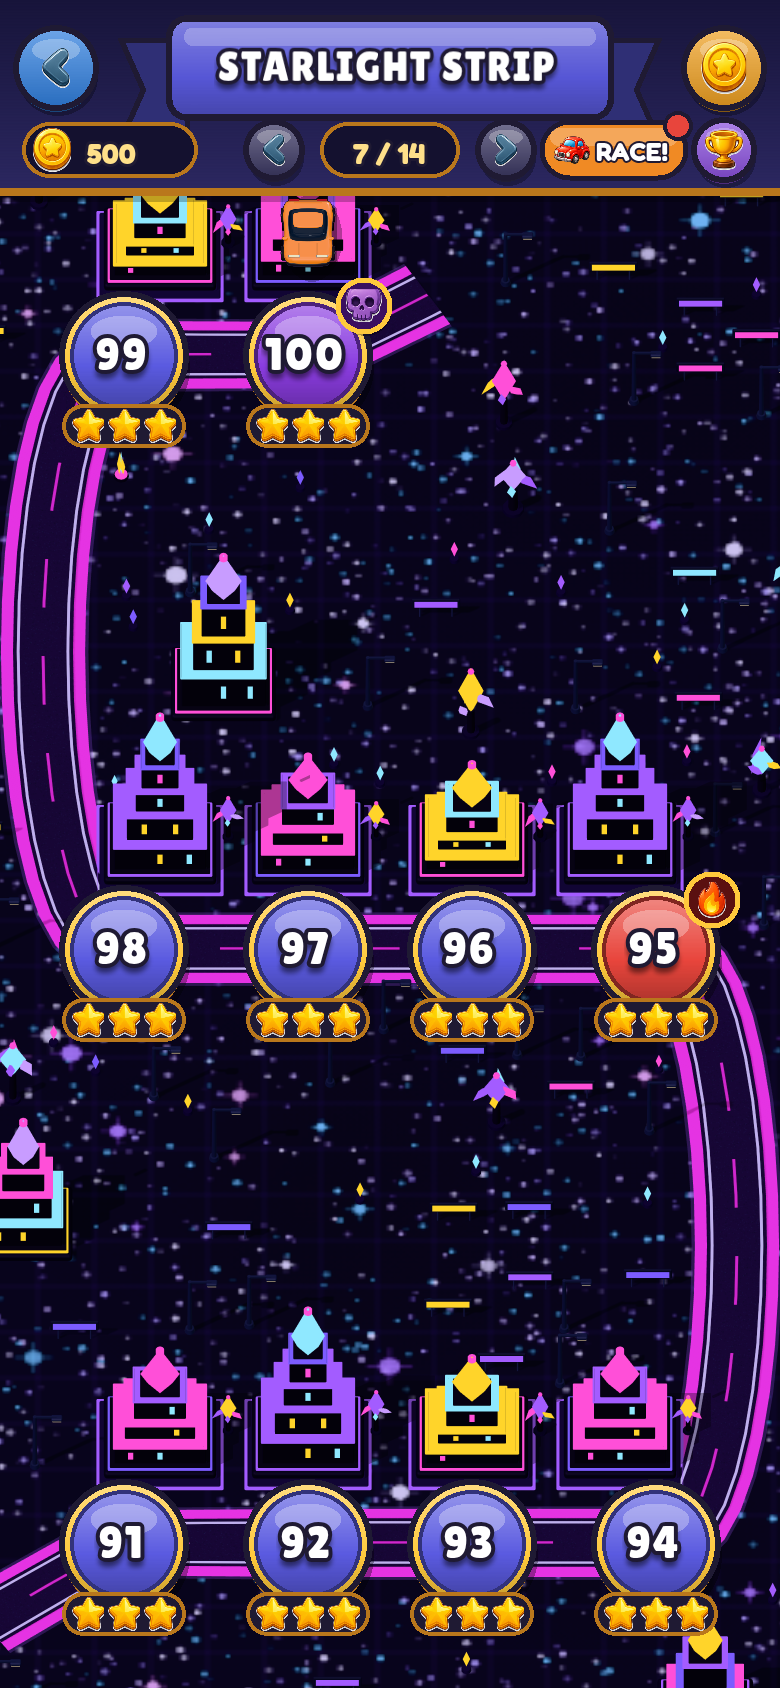
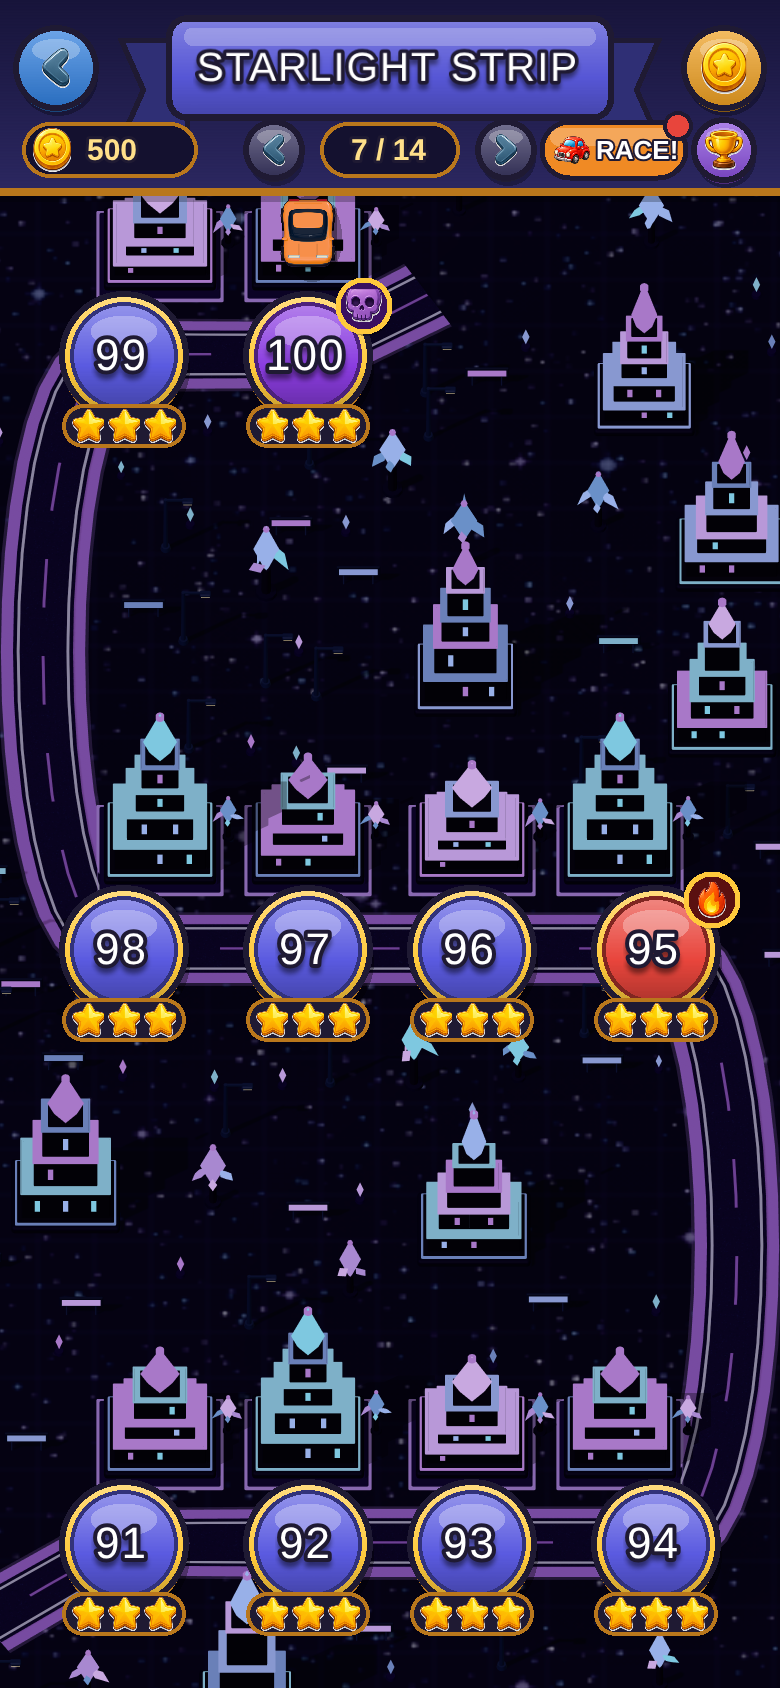
art(world7): desaturate Starlight Strip (CONCEPT revision)
Nadav rejected clarity CONCEPT as too colourful. Cooler restrained space-night
palette: softer ice/lilac neon, fewer road streaks, quieter fill/awnings, dialed
cosmos tint/glow. KEEP dark-rim + bright-core spires and clear crystalTree
trunk+crown. Rebaked W7 only. Still CONCEPT-STAMP.

diff --git a/tools/art/studio/backdrop.js b/tools/art/studio/backdrop.js
@@ -203,22 +203,22 @@ Object.assign(THEME, {
     lot: 0x70828F,
     sun: { color: 0xFFF0DA, intensity: 3.1, hemi: [0xCFE6FF, 0x5E6C78, 0.66], env: 0.32, exposure: 1.0 },
   },
-  // Starlight Strip — violet space-night: crystal spires, magenta neon, star-field plaza.
-  // Structural variety (faceted crystal towers, pedestaled crystal clusters, star plaza) —
+  // Starlight Strip — restrained space-night: crystal spires + crystal trees on deep navy/violet.
+  // Desaturate pass: cooler palette, softer neon; KEEP dark-rim / bright-core silhouette clarity.
   // NOT a Neon Nights hue swap (no setback city towers / warm marquees).
   world7: {
-    asphalt: 0x241838, asphaltHi: 0x32245A, asphaltLo: 0x1A1234, paint: '#F1E8FF', centre: '#FF4FD8',
-    kerb: 0x7A5CC8, gutter: 0x120A22, walk: [0x2A1E4E, 0x24183F, 0x32245A, 0x1E1438], walkJoint: '#140C28',
-    // Crystal-tree crowns: bright cyan/magenta (different value from dark tower walls).
-    lawn: [0x140E2A, 0x100A22], leaf: [0x8FE8FF, 0xFF4FD8, 0xC89CFF, 0xFFD42A, 0xA35CFF], trunk: 0x140C28,
-    roofs: [0x0E0818, 0x160E2E, 0x1A1234, 0x24183F],
-    // Dark silhouette walls (not mid-violet wash) — facets + neon belts carry the read.
-    walls: [0x1A1234, 0x140C28, 0x221848, 0x0E0818],
-    awnings: [[0xFF4FD8, 0x1A1234], [0xA35CFF, 0x1A1234], [0x8FE8FF, 0x1A1234]],
-    depot: [0x1C1438, 0x241A44, 0x160E2E], depotJoint: '#0C0818', track: 0x18122E, trackEdge: 0xFF4FD8,
-    neon: [0xFF4FD8, 0xA35CFF, 0x8FE8FF, 0xFFD42A, 0x7C5CFF], lot: 0x0A0718,
-    fill: [0xFF4FD8, 0x7C5CFF],
-    sun: { color: 0xD0C0FF, intensity: 1.85, hemi: [0x9A82FF, 0x0A0618, 0.72], env: 0.26, exposure: 1.05 },
+    asphalt: 0x1A142E, asphaltHi: 0x262040, asphaltLo: 0x120E24, paint: '#D0CCD8', centre: '#A878C8',
+    kerb: 0x564878, gutter: 0x0E0A1C, walk: [0x1E1838, 0x181430, 0x241E42, 0x16122C], walkJoint: '#100C20',
+    // Crystal-tree crowns: soft ice/lilac (readable vs dark trunks; no hot magenta/gold punch).
+    lawn: [0x100C20, 0x0C0818], leaf: [0x7EC8E0, 0xA888D0, 0x98B0E8, 0xC8A8E0, 0x6A90C8], trunk: 0x100C20,
+    roofs: [0x0C0814, 0x120E24, 0x16122C, 0x1C1834],
+    // Dark silhouette walls kept — facets + soft neon belts carry the read.
+    walls: [0x16122C, 0x100C20, 0x1C1838, 0x0C0814],
+    awnings: [[0x8868B0, 0x16122C], [0x6A88C0, 0x16122C], [0x7EB0C8, 0x16122C]],
+    depot: [0x16122E, 0x1C1838, 0x120E24], depotJoint: '#0A0814', track: 0x141028, trackEdge: 0xA878C8,
+    neon: [0xA878C8, 0x7EB0C8, 0x8898D0, 0xB898D8, 0x6A80B8], lot: 0x080610,
+    fill: [0x7050A0, 0x5060A0],
+    sun: { color: 0xB8B0D8, intensity: 1.55, hemi: [0x6A68A0, 0x080610, 0.55], env: 0.22, exposure: 0.98 },
   },
 });
 
@@ -279,18 +279,18 @@ function roadTexture(T, world, L, r) {
   if (FAMILY[world] === 'night') {
     // Wet asphalt: lamp pools and long neon streak reflections, added
     // light-on-dark ('lighter') so they glow instead of staining.
-    // World7 denser magenta/violet crystal wash (not warm sodium like Neon Nights).
-    const wetDense = world === 'world7';
+    // World7 soft violet wash (restrained vs Neon Nights sodium; desaturate pass).
+    const wetSoft = world === 'world7';
     x.save(); x.globalCompositeOperation = 'lighter';
     for (const [lx, lz, col] of L.lampPools ?? []) {
-      blotch(x, X(lx), Y(lz), (wetDense ? 3.6 : 3.2) * pxu, col, wetDense ? 0.26 : 0.22);
-      blotch(x, X(lx), Y(lz), 1.4 * pxu, wetDense ? 0xFFB0F0 : 0xFFE2A8, wetDense ? 0.18 : 0.16);
+      blotch(x, X(lx), Y(lz), (wetSoft ? 2.8 : 3.2) * pxu, col, wetSoft ? 0.14 : 0.22);
+      blotch(x, X(lx), Y(lz), 1.2 * pxu, wetSoft ? 0xC8B0E8 : 0xFFE2A8, wetSoft ? 0.10 : 0.16);
     }
     for (const [sx, sz, col] of L.neonStreaks ?? []) {
-      const gx = X(sx), gy = Y(sz), hw = (wetDense ? 0.42 : 0.35) * pxu, hh = (wetDense ? 3.1 : 2.6) * pxu;
+      const gx = X(sx), gy = Y(sz), hw = (wetSoft ? 0.28 : 0.35) * pxu, hh = (wetSoft ? 2.2 : 2.6) * pxu;
       const g = x.createLinearGradient(gx, gy - hh, gx, gy + hh);
       const c = new THREE.Color(col), rgb = `${Math.round(c.r * 255)},${Math.round(c.g * 255)},${Math.round(c.b * 255)}`;
-      g.addColorStop(0, `rgba(${rgb},0)`); g.addColorStop(0.5, `rgba(${rgb},${wetDense ? 0.42 : 0.35})`); g.addColorStop(1, `rgba(${rgb},0)`);
+      g.addColorStop(0, `rgba(${rgb},0)`); g.addColorStop(0.5, `rgba(${rgb},${wetSoft ? 0.22 : 0.35})`); g.addColorStop(1, `rgba(${rgb},0)`);
       x.fillStyle = g;
       x.beginPath(); x.ellipse(gx, gy, hw, hh, 0, 0, Math.PI * 2); x.fill();
     }
@@ -627,7 +627,7 @@ function crystal(T, r, s = 1) {
     g.add(c);
   }
   const tipH = (1.15 + r() * 0.55) * s;
-  const tip = new THREE.Mesh(new THREE.OctahedronGeometry(0.11 * s, 0), glow(pick(r, [0xFF4FD8, 0x8FE8FF, 0xFFD42A])));
+  const tip = new THREE.Mesh(new THREE.OctahedronGeometry(0.11 * s, 0), glow(pick(r, [0xA878C8, 0x7EC8E0, 0x98B0E8])));
   tip.scale.set(0.65, tipH / (0.22 * s), 0.65);
   tip.position.set(0, pedH + tipH * 0.5, 0);
   g.add(tip);
@@ -641,11 +641,11 @@ function crystalTree(T, r, s = 1) {
   const trunkR = (0.055 + r() * 0.02) * s;
   // Near-black trunk + thin cyan neon seam so trunk separates from night plaza.
   g.add(cyl(trunkR, trunkR * 1.15, trunkH, std(0x0E0818, 0.55, { metalness: 0.35 }), 0, trunkH / 2, 0, 8));
-  g.add(cyl(trunkR * 0.35, trunkR * 0.35, trunkH * 0.92, glow(pick(r, [0x8FE8FF, 0xA35CFF])), 0, trunkH / 2, 0, 6));
+  g.add(cyl(trunkR * 0.35, trunkR * 0.35, trunkH * 0.92, glow(pick(r, [0x7EC8E0, 0x8898D0])), 0, trunkH / 2, 0, 6));
   // Small dark planter disk (not a building pedestal).
-  g.add(cyl(trunkR * 2.4, trunkR * 2.6, 0.06 * s, std(0x120A28, 0.6, { metalness: 0.3 }), 0, 0.03 * s, 0, 10));
-  // Crown: 1 tall centre octahedron + 3–4 side leaves — clear tree silhouette.
-  const crownCols = [0x8FE8FF, 0xFF4FD8, 0xC89CFF, 0xFFD42A, 0xA35CFF];
+  g.add(cyl(trunkR * 2.4, trunkR * 2.6, 0.06 * s, std(0x100C20, 0.6, { metalness: 0.3 }), 0, 0.03 * s, 0, 10));
+  // Crown: 1 tall centre octahedron + 3–4 side leaves — clear tree silhouette (soft ice/lilac).
+  const crownCols = [0x7EC8E0, 0xA888D0, 0x98B0E8, 0xC8A8E0, 0x6A90C8];
   const centreH = (0.85 + r() * 0.55) * s;
   const centre = new THREE.Mesh(new THREE.OctahedronGeometry(0.22 * s, 0), glow(pick(r, crownCols)));
   centre.scale.set(1, centreH / (0.44 * s), 1);
@@ -661,8 +661,8 @@ function crystalTree(T, r, s = 1) {
     leaf.rotation.set((r() - 0.5) * 0.5, a, (r() - 0.5) * 0.35 + 0.55);
     g.add(leaf);
   }
-  // Magenta tip sparkle — reads as tree top, not tower aviation beacon.
-  g.add(sphere(0.06 * s, glow(0xFF4FD8), 0, trunkH + centreH * 0.85, 0, 8, 6));
+  // Soft lilac tip — reads as tree top, not tower aviation beacon.
+  g.add(sphere(0.06 * s, glow(0xA878C8), 0, trunkH + centreH * 0.85, 0, 8, 6));
   return g;
 }
 function crystalSpire(T, r, w, d, h) {
@@ -687,12 +687,12 @@ function crystalSpire(T, r, w, d, h) {
     const body = std(mix(wall, 0x000000, 0.15), 0.4, { metalness: 0.5 });
     g.add(rbox(tw, th * 0.96, td, 0.02, body, 0, y + th / 2, 0));
     // Bright crystal core (rotated diamond) — high value vs dark shell.
-    const coreCol = mix(neon, 0xffffff, 0.25 + i * 0.08);
-    const facet = rbox(tw * 0.62, th * 0.9, td * 0.62, 0.02, std(coreCol, 0.25, { metalness: 0.65, emissive: neon, emissiveIntensity: 0.18 }), 0, y + th / 2, 0);
+    const coreCol = mix(neon, 0xffffff, 0.18 + i * 0.06);
+    const facet = rbox(tw * 0.62, th * 0.9, td * 0.62, 0.02, std(coreCol, 0.28, { metalness: 0.55, emissive: neon, emissiveIntensity: 0.10 }), 0, y + th / 2, 0);
     facet.rotation.y = Math.PI / 4;
     g.add(facet);
     // Vertical edge highlights (4 corners) — crisp facet read at bake resolution.
-    const edgeM = glow(mix(neon, 0xffffff, 0.35));
+    const edgeM = glow(mix(neon, 0xffffff, 0.22));
     const ew = 0.035, eh = th * 0.85;
     for (const [sx, sz] of [[1, 1], [1, -1], [-1, 1], [-1, -1]]) {
       g.add(box(ew, eh, ew, edgeM, sx * (tw / 2 + 0.01), y + th / 2, sz * (td / 2 + 0.01)));
@@ -703,7 +703,7 @@ function crystalSpire(T, r, w, d, h) {
     const cols = Math.max(1, Math.floor(tw / 0.55));
     for (let c = 0; c < cols; c++) {
       if (r() < 0.4) continue;
-      g.add(box(0.12, th * 0.42, 0.025, glow(pick(r, [0x8FE8FF, 0xFF4FD8, 0xFFD42A])),
+      g.add(box(0.12, th * 0.42, 0.025, glow(pick(r, [0x7EC8E0, 0xA878C8, 0x98B0E8])),
         -tw / 2 + (c + 0.5) * (tw / cols), y + th * 0.48, td / 2 + 0.03));
     }
     y += th;
@@ -713,18 +713,18 @@ function crystalSpire(T, r, w, d, h) {
   // Single bright crown octahedron (no side-shard mush).
   const crownH = 0.85 + r() * 0.45;
   const crownR = Math.max(0.28, Math.min(tw, td) * 0.7);
-  const crown = new THREE.Mesh(new THREE.OctahedronGeometry(crownR, 0), glow(pick(r, [0x8FE8FF, 0xFF4FD8, 0xC89CFF, 0xFFD42A])));
+  const crown = new THREE.Mesh(new THREE.OctahedronGeometry(crownR, 0), glow(pick(r, [0x7EC8E0, 0xA878C8, 0x98B0E8, 0xC8A8E0])));
   crown.scale.set(1, crownH / crownR, 1);
   crown.position.y = y + crownH * 0.42;
   g.add(crown);
   // Dark collar under crown so crown doesn't melt into top tier.
   g.add(rbox(tw + 0.1, 0.05, td + 0.1, 0.02, rim, 0, y + 0.02, 0));
-  // Magenta aviation tip.
-  g.add(cyl(0.045, 0.045, 0.32, std(0x140C28, 0.5), 0, y + crownH + 0.12, 0, 6));
-  g.add(cyl(0.1, 0.1, 0.1, glow(0xFF4FD8), 0, y + crownH + 0.32, 0, 10));
+  // Soft violet aviation tip (no hot magenta punch).
+  g.add(cyl(0.045, 0.045, 0.32, std(0x100C20, 0.5), 0, y + crownH + 0.12, 0, 6));
+  g.add(cyl(0.1, 0.1, 0.1, glow(0xA878C8), 0, y + crownH + 0.32, 0, 10));
   return g;
 }
-function crystalBollard(col = 0xA35CFF) {
+function crystalBollard(col = 0xA878C8) {
   // Small glowing crystal post for Starlight Strip sidewalks.
   const g = new THREE.Group();
   g.add(cyl(0.1, 0.12, 0.08, std(0x1A1234, 0.55, { metalness: 0.4 }), 0, 0.04, 0, 10));
@@ -758,22 +758,22 @@ function starTexture(wU, dU, r, pxu = 24) {
   const W = Math.round(wU * pxu), H = Math.round(dU * pxu);
   const [c, x] = canvas(W, H);
   x.fillStyle = '#0A0718'; x.fillRect(0, 0, W, H);
-  // Soft nebula underlay (deeper violet, not crystal-bright).
-  for (let i = 0; i < 8; i++) blotch(x, r() * W, r() * H, 50 + r() * 100, [0x1A1040, 0x140C30, 0x22104A, 0x0E0A22][i % 4], 0.28);
+  // Soft nebula underlay (deeper navy, restrained).
+  for (let i = 0; i < 6; i++) blotch(x, r() * W, r() * H, 50 + r() * 100, [0x141028, 0x100C20, 0x1A1434, 0x0C0818][i % 4], 0.22);
   // Faint plaza tile grid so it reads as a floor, not open space mush.
-  x.strokeStyle = 'rgba(90,70,160,0.18)'; x.lineWidth = 1;
+  x.strokeStyle = 'rgba(70,60,120,0.14)'; x.lineWidth = 1;
   const tile = Math.max(18, Math.round(pxu * 0.9));
   for (let gx = 0; gx < W; gx += tile) { x.beginPath(); x.moveTo(gx, 0); x.lineTo(gx, H); x.stroke(); }
   for (let gy = 0; gy < H; gy += tile) { x.beginPath(); x.moveTo(0, gy); x.lineTo(W, gy); x.stroke(); }
-  // Dense tiny stars + a few brighter flares.
-  speckle(x, W, H, r, Math.floor(W * H * 0.018), ['#FFFFFF', '#E8DCFF', '#CFC3FF', '#8FE8FF'], 0.4, 1.2, 0.45, 0.95);
-  for (let i = 0; i < Math.max(8, Math.floor(W * H * 0.00035)); i++) {
-    const sx = r() * W, sy = r() * H, rr = 1.2 + r() * 2.2;
-    x.fillStyle = ['#FFFFFF', '#FFC8F2', '#C89CFF', '#8FE8FF'][Math.floor(r() * 4)];
-    x.globalAlpha = 0.7 + r() * 0.3;
+  // Quieter stars + fewer cool flares (desaturate pass).
+  speckle(x, W, H, r, Math.floor(W * H * 0.012), ['#FFFFFF', '#D8D4E8', '#C0C8E0', '#A8C0D8'], 0.35, 1.0, 0.35, 0.75);
+  for (let i = 0; i < Math.max(4, Math.floor(W * H * 0.00018)); i++) {
+    const sx = r() * W, sy = r() * H, rr = 1.0 + r() * 1.6;
+    x.fillStyle = ['#FFFFFF', '#C8C0E0', '#A8B8D8', '#B0A8C8'][Math.floor(r() * 4)];
+    x.globalAlpha = 0.45 + r() * 0.25;
     x.beginPath(); x.arc(sx, sy, rr, 0, Math.PI * 2); x.fill();
-    x.globalAlpha = 0.35; x.fillRect(sx - rr * 2.2, sy - 0.5, rr * 4.4, 1);
-    x.fillRect(sx - 0.5, sy - rr * 2.2, 1, rr * 4.4);
+    x.globalAlpha = 0.22; x.fillRect(sx - rr * 2.0, sy - 0.5, rr * 4.0, 1);
+    x.fillRect(sx - 0.5, sy - rr * 2.0, 1, rr * 4.0);
     x.globalAlpha = 1;
   }
   return toTex(c);
@@ -999,10 +999,11 @@ export function buildBackdrop(world, variant, L) {
   // Street lamps (both sides), used for night light pools too.
   const lampZs = [];
   for (let gz = L.topZ + 3 + r() * 2; gz < L.breachZ - 2.5; gz += 7.5 + r() * 1.5) lampZs.push(gz);
-  const poolCol = world === 'world7' ? 0xC070FF : 0xFFB45A;
+  const poolCol = world === 'world7' ? 0x8060B0 : 0xFFB45A;
   const lampPools = night ? lampZs.flatMap((lz) => [[-(L.halfW - 0.9), lz + 0.3, poolCol], [(L.halfW - 0.9), lz + 3.6, poolCol]]) : [];
-  const streakN = world === 'world7' ? 14 : 9;
-  const neonStreaks = night ? Array.from({ length: streakN }, (_, i) => [(i % 2 ? 1 : -1) * (L.halfW - 0.45 - r() * 0.7), L.topZ + 1.5 + i * (world === 'world7' ? 2.4 : 3.1) + r(), pick(r, T.neon ?? [0xFF3DB8, 0x4FE3FF, 0xA35CFF])]) : [];
+  // Desaturate: fewer softer streaks on W7 (was 14 dense magenta punches).
+  const streakN = world === 'world7' ? 7 : 9;
+  const neonStreaks = night ? Array.from({ length: streakN }, (_, i) => [(i % 2 ? 1 : -1) * (L.halfW - 0.45 - r() * 0.7), L.topZ + 1.5 + i * (world === 'world7' ? 4.2 : 3.1) + r(), pick(r, T.neon ?? [0xFF3DB8, 0x4FE3FF, 0xA35CFF])]) : [];
 
   // 1. Road surface (textured plane in game units, stretched onto studio z).
   const roadTex = roadTexture(T, world, { pxu, halfW: L.halfW, laneXs: L.laneXs, z0, z1: L.breachZ + 0.05, crossZ, lampPools, neonStreaks }, r);
@@ -1082,8 +1083,8 @@ export function buildBackdrop(world, variant, L) {
         // thin the left-side mush; prefer readable props over dense unclear filler.
         if (kind < 0.22) { const t = greenery(world, T, r, 1.05 + r() * 0.25); t.position.set(px, 0.1, Z(tz)); g.add(t); }
         else if (kind < 0.55) { for (let k = 0; k < 2; k++) { const b = crystalBollard(pick(r, T.neon)); b.position.set(px - s * 0.1, 0.1, Z(tz + k * 0.8)); g.add(b); } }
-        else if (kind < 0.78) { const n = neonSign(T, r, 1.0 + r() * 0.4); n.position.set(px + s * 0.15, 0.1, Z(tz)); n.rotation.y = Math.PI / 2; g.add(n); }
-        else { const b = crystalBollard(0xFF4FD8); b.position.set(px - s * 0.15, 0.1, Z(tz)); g.add(b); const b2 = crystalBollard(0x8FE8FF); b2.position.set(px - s * 0.15, 0.1, Z(tz + 0.9)); g.add(b2); }
+        else if (kind < 0.70) { const n = neonSign(T, r, 1.0 + r() * 0.35); n.position.set(px + s * 0.15, 0.1, Z(tz)); n.rotation.y = Math.PI / 2; g.add(n); }
+        else { const b = crystalBollard(0xA878C8); b.position.set(px - s * 0.15, 0.1, Z(tz)); g.add(b); const b2 = crystalBollard(0x7EC8E0); b2.position.set(px - s * 0.15, 0.1, Z(tz + 0.9)); g.add(b2); }
       } else {
         if (kind < 0.4) { const t = greenery(world, T, r, 0.85); t.position.set(px, 0.1, Z(tz)); g.add(t); }
         else if (kind < 0.7) { const b = bollard(0x4A4E62); b.position.set(px - s * 0.1, 0.1, Z(tz)); g.add(b); const b2 = bollard(0x4A4E62); b2.position.set(px - s * 0.1, 0.1, Z(tz + 0.7)); g.add(b2); }
@@ -1216,8 +1217,8 @@ export function buildBackdrop(world, variant, L) {
       const p = pallet(r); p.position.set(fx, 0.02, Z(dz0 + 4.4)); g.add(p);
       const c = cone(); c.position.set(fx - s * 0.2, 0.02, Z(dz0 + 6.2)); g.add(c);
     } else if (world === 'world7') {
-      const n = neonSign(T, r, 1.35); n.position.set(fx + s * 0.2, 0.02, Z(dz0 + 1.8)); g.add(n);
-      if (r() < 0.55) { const n2 = neonSign(T, r, 0.9); n2.position.set(fx + s * 0.35, 0.02, Z(dz0 + 3.4)); n2.rotation.y = Math.PI / 2; g.add(n2); }
+      const n = neonSign(T, r, 1.2); n.position.set(fx + s * 0.2, 0.02, Z(dz0 + 1.8)); g.add(n);
+      if (r() < 0.35) { const n2 = neonSign(T, r, 0.85); n2.position.set(fx + s * 0.35, 0.02, Z(dz0 + 3.4)); n2.rotation.y = Math.PI / 2; g.add(n2); }
       // One clear crystal tree per flank (not two overlapping greenery blobs).
       const t = greenery(world, T, r, 1.15); t.position.set(fx, 0.02, Z(dz0 + 5.4)); g.add(t);
       for (let k = 0; k < 3; k++) { const b = crystalBollard(pick(r, T.neon)); b.position.set(fx - s * 0.15, 0.02, Z(dz0 + 2.6 + k * 0.55)); g.add(b); }
@@ -1272,14 +1273,14 @@ export function renderBackdrop(renderer, world, variant, L, { scale = 2, ss = 2 
   sun.position.add(new THREE.Vector3(0, 0, zMid));
   scene.add(sun, sun.target);
   if (FAMILY[world] === 'night') {
-    // Coloured neon fill from the flanks — World7 punches magenta/violet so crystals read.
+    // Coloured neon fill from the flanks — World7 kept cool/restrained (desaturate pass).
     const [fa, fb2] = T.fill ?? [0xFF3DB8, 0x4FE3FF];
-    const inten = world === 'world7' ? 0.38 : 0.35;
+    const inten = world === 'world7' ? 0.18 : 0.35;
     const a = new THREE.DirectionalLight(fa, inten); a.position.set(-10, 6, zMid); scene.add(a);
     const b = new THREE.DirectionalLight(fb2, inten); b.position.set(10, 6, zMid); scene.add(b);
     if (world === 'world7') {
-      // Softer fill — hard rim/core contrast on spires must survive the bake (not violet wash).
-      const c = new THREE.PointLight(0xA35CFF, 0.35, 40, 2); c.position.set(0, 8, zMid); scene.add(c);
+      // Quiet fill — rim/core silhouette survives; no violet chroma wash.
+      const c = new THREE.PointLight(0x7060A0, 0.16, 40, 2); c.position.set(0, 8, zMid); scene.add(c);
     }
   }
 

diff --git a/tools/art/studio/mapdiorama.js b/tools/art/studio/mapdiorama.js
@@ -77,7 +77,7 @@ export function buildMapHD(theme, seed, { W, H, S, road, nodes, plots, tilt }) {
   const g = new THREE.Group();
   const fam = FAMILY[theme];
   const night = fam === 'night';
-  const accent = theme === 'world3' ? 0x4FE3FF : theme === 'world7' ? 0xA35CFF : null;
+  const accent = theme === 'world3' ? 0x4FE3FF : theme === 'world7' ? 0x8868B0 : null;
 
   // Ground.
   let groundMat;
@@ -101,7 +101,7 @@ export function buildMapHD(theme, seed, { W, H, S, road, nodes, plots, tilt }) {
   const path = road.map(toW);
   const roadW = 30 / S;
   let pathLen = 0; for (let i = 1; i < path.length; i++) pathLen += Math.hypot(path[i][0] - path[i - 1][0], path[i][1] - path[i - 1][1]);
-  const kerbCol = NEW_WORLD(theme) ? (theme === 'world6' ? 0xFF8A1C : theme === 'world7' ? 0xFF4FD8 : T.kerb) : theme === 'world2' ? 0xFFC21A : theme === 'world3' ? 0x4A4E62 : 0xE8E1D2;
+  const kerbCol = NEW_WORLD(theme) ? (theme === 'world6' ? 0xFF8A1C : theme === 'world7' ? 0xA878C8 : T.kerb) : theme === 'world2' ? 0xFFC21A : theme === 'world3' ? 0x4A4E62 : 0xE8E1D2;
   g.add(ribbon(path, roadW + 0.55, std(kerbCol, 0.7), 0.04));
   const rt = roadStripTexture(T, theme, r);
   rt.repeat.set(1, 1);
@@ -191,11 +191,11 @@ export function buildMapHD(theme, seed, { W, H, S, road, nodes, plots, tilt }) {
       else if (p < 0.9) { rad = 0.7; obj = new THREE.Group(); for (let k = 0; k < 2; k++) { const pl = pallet(r); pl.position.x = k * 0.85; obj.add(pl); } }
       else { rad = 0.5; obj = new THREE.Group(); for (let k = 0; k < 3; k++) { const c = cone(); c.position.x = k * 0.35; obj.add(c); } }
     } else if (theme === 'world7') {
-      // Clarity: fewer denser-spaced spires + sparse crystal trees (not blob mush).
+      // Clarity kept + desaturate: spires/trees dominant; fewer neon signs.
       if (p < 0.12) { rad = 0.45; obj = lamp(T, r, true, 1); }
-      else if (p < 0.52) { rad = 2.1; obj = crystalSpire(T, r, 1.6 + r() * 0.45, 1.45, 2.4 + r() * 2.0); }
-      else if (p < 0.66) { rad = 1.05; obj = greenery(theme, T, r, 1.05 + r() * 0.3); }
-      else if (p < 0.82) { rad = 0.65; obj = neonSign(T, r, 1.1); }
+      else if (p < 0.55) { rad = 2.1; obj = crystalSpire(T, r, 1.6 + r() * 0.45, 1.45, 2.4 + r() * 2.0); }
+      else if (p < 0.74) { rad = 1.05; obj = greenery(theme, T, r, 1.05 + r() * 0.3); }
+      else if (p < 0.86) { rad = 0.65; obj = neonSign(T, r, 1.0); }
       else { rad = 0.4; obj = crystalBollard(pick(r, T.neon)); }
     } else {
       if (p < 0.18) { rad = 0.4; obj = lamp(T, r, true, 1); }

diff --git a/src/renderer3d/ThemeRegistry.js b/src/renderer3d/ThemeRegistry.js
@@ -115,18 +115,18 @@ export const THEMES = {
     fog:       { color: 0x9cc0cc, near: 24, far: 84 },
     roadColor: 0x1c2024,
   },
-  // Cosmos (World 7, L91-100): deep violet space, neon rim, dark low fog.
+  // Cosmos (World 7, L91-100): deep navy/violet space, restrained neon, dark low fog.
   cosmos: {
-    sky:       { zenith: 0x0a0420, mid: 0x1c0a48, horizon: 0x4a1a8a, glow: 0xb040ff },
-    hemi:      { sky: 0x4a2a8a, ground: 0x120a2a, intensity: 0.55 },
-    sun:       { color: 0xb090ff, intensity: 0.40 },
-    ambient:   { color: 0xd8c8ff, intensity: 0.58 },
-    fog:       { color: 0x2a1458, near: 14, far: 48 },
-    roadColor: 0x120c1e,
-    emissiveBoost: 0.35,
-    // Clarity revision: lighter wash so crystalSpire / crystalTree edges from the bake survive.
-    sceneTint: 0xD0C4F0,
-    sceneGlow: 0x241028,
+    sky:       { zenith: 0x080318, mid: 0x140830, horizon: 0x2e1858, glow: 0x6840a0 },
+    hemi:      { sky: 0x3a2868, ground: 0x0c0818, intensity: 0.42 },
+    sun:       { color: 0x9080c0, intensity: 0.30 },
+    ambient:   { color: 0xb0a8c8, intensity: 0.42 },
+    fog:       { color: 0x1a0e38, near: 14, far: 48 },
+    roadColor: 0x100c1a,
+    emissiveBoost: 0.18,
+    // Desaturate pass: quieter wash so bake chroma stays calm; silhouette edges still read.
+    sceneTint: 0xA8A0B8,
+    sceneGlow: 0x100818,
   },
 };
 
